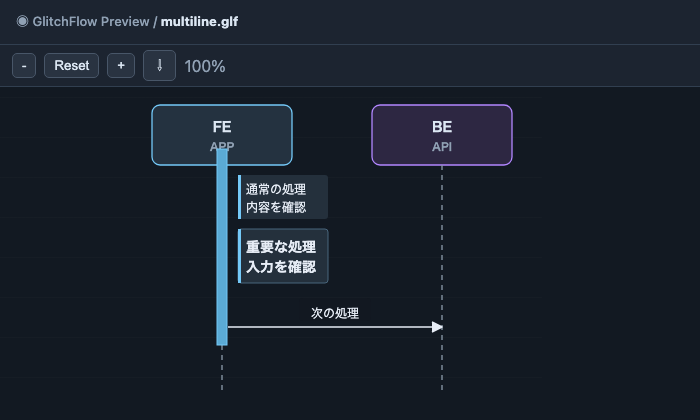
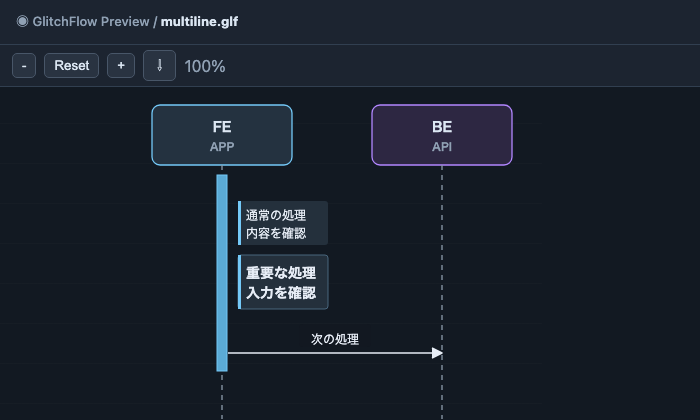
feat: Fix initial activation overlap by adjusting activation bar positioning and updating related specifications and tests

Changed region(s): [[0.3, 0.3405, 0.63, 0.8976]]

diff --git a/tests/visual/sequence.spec.ts b/tests/visual/sequence.spec.ts
@@ -80,7 +80,7 @@ test("REQ-007 / REQ-007-S02: 応答のない同期要求を補わない", async 
   await expect(page.locator(".sequence-arrow--response")).toHaveCount(0);
 });
 
-test("REQ-008 / REQ-008-S03、REQ-023 / REQ-023-S02: 複数行の処理を重ねず表示する", async ({
+test("REQ-008 / REQ-008-S03、REQ-022 / REQ-022-S03、REQ-023 / REQ-023-S02: 複数行の処理を重ねず表示する", async ({
   page,
 }) => {
   await page.goto("/");
@@ -110,6 +110,20 @@ test("REQ-008 / REQ-008-S03、REQ-023 / REQ-023-S02: 複数行の処理を重ね
   await expect(lines).toHaveCount(2);
   await expect(lines.nth(0)).toHaveText("重要な処理");
   await expect(lines.nth(1)).toHaveText("入力を確認");
+  const objectAndActivation = await page.evaluate(() => {
+    const object = window.document.querySelector<SVGRectElement>(
+      '.sequence-lifeline[data-object-id="FE"] .sequence-object',
+    );
+    const activation = window.document.querySelector<SVGRectElement>(
+      '.sequence-activation[data-object-id="FE"]',
+    );
+    if (!object || !activation) return null;
+    const objectBox = object.getBBox();
+    const activationBox = activation.getBBox();
+    return activationBox.y - (objectBox.y + objectBox.height);
+  });
+  expect(objectAndActivation).not.toBeNull();
+  expect(objectAndActivation).toBeGreaterThanOrEqual(8);
   const firstCardBox = await cards.nth(0).boundingBox();
   const cardBox = await cards.nth(1).boundingBox();
   const arrowBox = await page.locator(".sequence-arrow--sync").boundingBox();

diff --git a/src/webview/pages/preview/ui/render-preview.ts b/src/webview/pages/preview/ui/render-preview.ts
@@ -1,6 +1,7 @@
 import { type GlfDocument, layoutSequence } from "../../../../core";
 import {
   ACTIVATION_WIDTH,
+  OBJECT_HEADER_BOTTOM_Y,
   type SequenceLayout,
 } from "../../../../core/layout/sequence-layout";
 import { changeZoom, getZoom, resetZoom } from "../model/zoom";
@@ -325,7 +326,7 @@ export function renderPreview(
           x: String(lane.x - labelWidth / 2),
           y: "18",
           width: String(labelWidth),
-          height: "60",
+          height: String(OBJECT_HEADER_BOTTOM_Y - 18),
           rx: "8",
           class: `sequence-object sequence-object--${lane.type.toLowerCase()}`,
         }),
@@ -343,7 +344,7 @@ export function renderPreview(
         svgElement("line", {
           x1: String(lane.x),
           x2: String(lane.x),
-          y1: "78",
+          y1: String(OBJECT_HEADER_BOTTOM_Y),
           y2: String(layout.height - 24),
           class: "sequence-lifeline-line",
         }),

diff --git a/src/core/layout/sequence-layout.ts b/src/core/layout/sequence-layout.ts
@@ -7,6 +7,7 @@ import type {
 } from "../model/glf-model";
 
 export const ACTIVATION_WIDTH = 10;
+export const OBJECT_HEADER_BOTTOM_Y = 78;
 
 type TimelineItem =
   | Exclude<GlfEvent, { events: GlfEvent[] } | { branches: unknown[] }>
@@ -528,7 +529,7 @@ export function layoutSequence(
       preceding?.kind === "message" &&
       preceding.mode === "response" &&
       preceding.from === event.objectId;
-    const y = followsOwnResponse
+    const eventY = followsOwnResponse
       ? lastY
       : lastY +
         (event.kind === "activation"
@@ -540,6 +541,10 @@ export function layoutSequence(
             : preceding?.kind === "branch-open"
               ? 44
               : 60);
+    const y =
+      event.kind === "activation" && event.action === "start"
+        ? Math.max(eventY, OBJECT_HEADER_BOTTOM_Y + 10)
+        : eventY;
     lastY = y;
     lastPanel = undefined;
     if (event.kind === "activation") {

diff --git a/tests/core/sequence-layout.test.ts b/tests/core/sequence-layout.test.ts
@@ -26,6 +26,14 @@ describe("layoutSequence", () => {
     expect(layout.processes[0].emphasis).toBe(true);
   });
 
+  it("REQ-022 / REQ-022-S03: メッセージ後の活性はメッセージ位置から始まる", () => {
+    const layout = layoutSequence(
+      parseGlf('Object FE as "FE" type APP\nGlobal ->> FE: 入力\nFE+\nFE-'),
+      measure,
+    );
+    expect(layout.activations[0].startY).toBe(layout.messages[0].y);
+  });
+
   it("REQ-008 / REQ-008-S02: 未宣言の参照を配置せず既知の処理を残す", () => {
     const document = parseGlf(
       'Object FE as "FE" type APP\nFE ->> X: call\nFE: work',

diff --git a/openspec/traceability.md b/openspec/traceability.md
@@ -70,6 +70,7 @@
 
 | 変更名 | 要件ID | 操作 | 変更の状態 | 対象仕様 | 提案、設計、タスク |
 | --- | --- | --- | --- | --- | --- |
+| fix-initial-activation-overlap | REQ-022 | 変更 | アーカイブ済み | [正式仕様](specs/preview-appearance/spec.md#requirement-req-022---図面とobjectの視覚表現) | [提案](changes/archive/2026-10-31-fix-initial-activation-overlap/proposal.md)、[設計](changes/archive/2026-10-31-fix-initial-activation-overlap/design.md)、[タスク](changes/archive/2026-10-31-fix-initial-activation-overlap/tasks.md) |
 | multiline-process-labels | REQ-002 | 変更 | アーカイブ済み | [正式仕様](specs/glf-parsing/spec.md) | [提案](changes/archive/2026-10-31-multiline-process-labels/proposal.md)、[設計](changes/archive/2026-10-31-multiline-process-labels/design.md)、[タスク](changes/archive/2026-10-31-multiline-process-labels/tasks.md) |
 | multiline-process-labels | REQ-008 | 変更 | アーカイブ済み | [正式仕様](specs/sequence-rendering/spec.md) | [提案](changes/archive/2026-10-31-multiline-process-labels/proposal.md)、[設計](changes/archive/2026-10-31-multiline-process-labels/design.md)、[タスク](changes/archive/2026-10-31-multiline-process-labels/tasks.md) |
 | multiline-process-labels | REQ-023 | 変更 | アーカイブ済み | [正式仕様](specs/preview-appearance/spec.md) | [提案](changes/archive/2026-10-31-multiline-process-labels/proposal.md)、[設計](changes/archive/2026-10-31-multiline-process-labels/design.md)、[タスク](changes/archive/2026-10-31-multiline-process-labels/tasks.md) |
@@ -130,6 +131,7 @@
 
 | 変更名 | 要件IDとシナリオID | 受け入れ条件 | 実装箇所 | テストまたは手動確認 | 検証記録 |
 | --- | --- | --- | --- | --- | --- |
+| fix-initial-activation-overlap | REQ-022 / REQ-022-S03 | [シナリオ](specs/preview-appearance/spec.md#scenario-req-022-s03---先頭の活性をobject枠の下に置く) | [配置](../src/core/layout/sequence-layout.ts) `layoutSequence`、[描画](../src/webview/pages/preview/ui/render-preview.ts) `renderPreview` | [Chromium](../tests/visual/sequence.spec.ts) `REQ-022 / REQ-022-S03`、[Core](../tests/core/sequence-layout.test.ts) `REQ-022 / REQ-022-S03`、[実画面](../docs/images/multiline-process-preview.png) | [記録](#fix-initial-activation-overlap---2026-10-31-object枠と活性の間隔) |
 | multiline-process-labels | REQ-002 / REQ-002-S03 | [シナリオ](specs/glf-parsing/spec.md#scenario-req-002-s03---複数行の処理を保持する) | [解析](../src/core/parser/parse-glf.ts) `parseGlf` | [Core](../tests/core/parse-glf.test.ts) `REQ-002 / REQ-002-S03` | [記録](#multiline-process-labels---2026-10-31-複数行処理) |
 | multiline-process-labels | REQ-002 / REQ-002-S04 | [シナリオ](specs/glf-parsing/spec.md#scenario-req-002-s04---空の処理を診断する) | [解析](../src/core/parser/parse-glf.ts) `parseGlf` | [Core](../tests/core/parse-glf.test.ts) `REQ-002 / REQ-002-S04` | [記録](#multiline-process-labels---2026-10-31-複数行処理) |
 | multiline-process-labels | REQ-008 / REQ-008-S03 | [シナリオ](specs/sequence-rendering/spec.md#scenario-req-008-s03---複数行処理の時間軸を確保する) | [配置](../src/core/layout/sequence-layout.ts) `layoutSequence` | [Core](../tests/core/sequence-layout.test.ts) `REQ-008 / REQ-008-S03`、[Chromium](../tests/visual/sequence.spec.ts) `REQ-008 / REQ-008-S03` | [記録](#multiline-process-labels---2026-10-31-複数行処理) |
@@ -843,4 +845,27 @@ OpenSpecのstrict検証も成功した。\
 - 方法: 差分仕様の3要件ブロックを正式仕様へ同期し、`npx --no-install openspec validate --specs`と要件ブロックの一致を確認した。
 - 結果: 正式仕様13件の検証が成功し、変更を[アーカイブ](changes/archive/2026-10-31-multiline-process-labels/proposal.md)へ移した。
 - 証跡: [解析仕様](specs/glf-parsing/spec.md)、[配置仕様](specs/sequence-rendering/spec.md)、[表示仕様](specs/preview-appearance/spec.md)、[完了タスク](changes/archive/2026-10-31-multiline-process-labels/tasks.md)。
+- 未検証事項: なし。
+
+### fix-initial-activation-overlap - 2026-10-31 Object枠と活性の間隔
+
+- 対象: REQ-022-S01、REQ-022-S02、REQ-022-S03。
+- 実行日: 2026-10-31 JST。
+- 対象の版: この作業ツリーの未コミット差分。
+- 方法: 先頭に`FE+`がある複数行処理のChromiumテストを追加し、Object枠との間隔が-16pxで失敗することを確認した。\
+配置の下限を修正して同じテストと`npm run check`、関連するChromiumテスト、`npm run build`、`npx --no-install openspec validate fix-initial-activation-overlap --strict`を実行した。
+- 結果: Coreテスト44件とChromiumテスト20件が成功した。\
+Object枠と活性の間に空きがある[実画面](../docs/images/multiline-process-preview.png)を確認した。\
+OpenSpecのstrict検証とビルドも成功した。
+- 証跡: [変更仕様](changes/archive/2026-10-31-fix-initial-activation-overlap/specs/preview-appearance/spec.md)、[配置](../src/core/layout/sequence-layout.ts)、[Chromium](../tests/visual/sequence.spec.ts)、[Core](../tests/core/sequence-layout.test.ts)。
+- 未検証事項: なし。
+
+### fix-initial-activation-overlap - 2026-10-31 アーカイブ
+
+- 対象: REQ-022、REQ-022-S03。
+- 実行日: 2026-10-31 JST。
+- 対象の版: この作業ツリーの未コミット差分。
+- 方法: 差分仕様のREQ-022を正式仕様へ同期し、要件ブロックの一致と`npx --no-install openspec validate --specs`を確認した。
+- 結果: 正式仕様13件の検証が成功し、変更を[アーカイブ](changes/archive/2026-10-31-fix-initial-activation-overlap/proposal.md)へ移した。
+- 証跡: [正式仕様](specs/preview-appearance/spec.md)、[完了タスク](changes/archive/2026-10-31-fix-initial-activation-overlap/tasks.md)。
 - 未検証事項: なし。

diff --git a/openspec/changes/archive/2026-10-31-fix-initial-activation-overlap/design.md b/openspec/changes/archive/2026-10-31-fix-initial-activation-overlap/design.md
@@ -1,0 +1,57 @@
+# Design
+
+## Context
+
+- 提案: [proposal.md](proposal.md)。
+- 対象仕様: [REQ-022](specs/preview-appearance/spec.md)。
+- 前提と制約: [レイアウトと描画](../../../tech.md#レイアウトと描画)に従い、座標はCoreで決める。
+
+## Goals / Non-Goals
+
+**Goals:**
+
+- REQ-022-S03のObject枠と先頭活性の間隔を確保する。
+
+**Non-Goals:**
+
+- メッセージの直後に始まる活性の起点は変えない。
+
+## Decisions
+
+### D-01 - 先頭の活性開始位置を下限で守る
+
+- 対象: REQ-022、REQ-022-S03。
+- 選択: Coreの配置で活性開始イベントの座標にObject枠下端からの下限を設ける。
+- 理由: 表示側で活性バーだけをずらすと、後続の処理とメッセージの時間軸が一致しなくなる。
+- 代替案: SVG描画時の活性バーだけを下げる方法は、配置結果と表示結果が食い違うため採用しない。
+- 配置と依存: [sequence-layout.ts](../../../../src/core/layout/sequence-layout.ts)の`layoutSequence`に置き、既存のレイアウトAPIを維持する。
+
+## Traceability
+
+| 要件ID | シナリオID | 設計節 | 実装予定箇所 | 検証方法とテスト予定 |
+| --- | --- | --- | --- | --- |
+| REQ-022 | REQ-022-S01 | [D-01](#d-01---先頭の活性開始位置を下限で守る) | `layoutSequence` | [既存Chromium](../../../../tests/visual/preview-appearance.spec.ts)の色と表示 |
+| REQ-022 | REQ-022-S02 | [D-01](#d-01---先頭の活性開始位置を下限で守る) | `layoutSequence` | [既存Chromium](../../../../tests/visual/preview-appearance.spec.ts)の種別とテーマ |
+| REQ-022 | REQ-022-S03 | [D-01](#d-01---先頭の活性開始位置を下限で守る) | `layoutSequence` | [Chromium](../../../../tests/visual/sequence.spec.ts)のObject枠と活性の座標 |
+
+## Verification Plan
+
+- 正常、境界、異常: 先頭の`FE+`をChromiumで測定し、メッセージ直後の活性位置は既存の配置テストで確認する。
+- 非機能要件: 対象外である。
+- 手動確認: 更新した[実画面](../../../../docs/images/multiline-process-preview.png)でObject枠と活性の間を目視確認する。
+- 全体検証: `npm run check`、対象のPlaywrightテスト、OpenSpec strict検証を実行する。
+
+## Risks / Trade-offs
+
+| 対象IDまたは設計節 | リスクや制約 | 対処と検証 |
+| --- | --- | --- |
+| D-01 | 先頭イベントの後続要素も下がる | 既存の描画テストを実行する |
+
+## Migration Plan
+
+DSLと設定の移行は不要である。
+修正が失敗した場合は配置の下限と回帰テストを見直す。
+
+## Open Questions
+
+なし。

diff --git a/openspec/changes/archive/2026-10-31-fix-initial-activation-overlap/specs/preview-appearance/spec.md b/openspec/changes/archive/2026-10-31-fix-initial-activation-overlap/specs/preview-appearance/spec.md
@@ -1,0 +1,32 @@
+# Spec Delta
+
+## MODIFIED Requirements
+
+### Requirement: REQ-022 - 図面とObjectの視覚表現
+
+WHEN `.glf`の図面を表示したとき、GlitchFlowは SHALL HTML試作に基づく暗色の図面背景と操作部を表示し、Objectの表示名と種別を二段の枠内に示し、DSL上のObject IDを図面の文字列として表示せず、APP `#74C9F8`、API `#B287FF`、DB `#47D78B`、FILE `#EDA357`、FEATURE `#E79BBE`、MODULE `#A5B3C4`を枠と活性の識別色として使用する。\
+先頭イベントの活性バーはObject枠の下端から8px以上離して配置する。
+
+#### Scenario: REQ-022-S01 - 種別と活性を区別する
+
+- **GIVEN** FE、BE、DB、FILEの4種類と活性を含む`examples/login.glf`がある。
+- **WHEN** プレビューを表示する。
+- **THEN** 各Objectに表示名と種別だけが表示され、`FE`、`BE`、`DB`、`FILE`のIDは副題に現れず、枠と対応する活性バーが種別ごとの色で区別できる。
+- **AND** 図面と操作部は暗色の背景を持ち、図面には控えめな横方向の時間目盛りがある。
+- **AND** 操作部の3つのボタンに表示する文字は左から`-`、`Reset`、`+`であり、縮小、等倍、拡大の操作をそれぞれ実行できる。
+- **AND** 3つのボタンの読み上げ用の名前はそれぞれ`縮小`、`等倍`、`拡大`である。
+- **AND** 最初のメッセージラベルの上端はObject枠の下端から10px以上離れる。
+
+#### Scenario: REQ-022-S02 - 未使用の種別とテーマ
+
+- **GIVEN** FEATUREとMODULEを宣言した`.glf`をライトテーマのVS Codeで開いている。
+- **WHEN** プレビューを表示する。
+- **THEN** 両種別はそれぞれ指定の識別色を使い、暗色の図面上で表示名と種別が読め、IDは表示されない。
+- **AND** VS Codeの通常エディタの配色は変更されない。
+
+#### Scenario: REQ-022-S03 - 先頭の活性をObject枠の下に置く
+
+- **GIVEN** 最初のイベントが`FE+`であり、FEの複数行処理、メッセージ、`FE-`が続く文書がある。
+- **WHEN** プレビューを表示する。
+- **THEN** FEの活性バーはObject枠の下端から8px以上下に始まり、処理とメッセージの位置まで連続する。
+- **AND** メッセージの直後に始まる活性は、従来どおりメッセージの高さから始まる。

diff --git a/openspec/changes/archive/2026-10-31-fix-initial-activation-overlap/proposal.md b/openspec/changes/archive/2026-10-31-fix-initial-activation-overlap/proposal.md
@@ -1,0 +1,61 @@
+# Proposal
+
+## Why
+
+最初のイベントが`FE+`の図では、活性バーの上端がObject枠に入り込み、表示名と種別を読みにくくする。
+複数行処理の実画面でもこの重なりが発生したため、開始位置を修正する。
+
+## What Changes
+
+- 最初のイベントが活性開始の場合、活性バーをObject枠の下に配置する。
+- [複数行処理の実画面](../../../../docs/images/multiline-process-preview.png)を修正後の表示で更新する。
+
+## Scope
+
+**In scope:**
+
+- 最初の活性開始とObject枠の間隔。
+- 描画テストと実画面の更新。
+
+**Out of scope:**
+
+- メッセージの直後に始まる活性の接続位置: 既存の表示条件を維持するため。
+- Object枠の形と配色: 重なりの原因ではないため。
+
+## Requirements
+
+| 要件ID | 要件名 | 操作 | 根拠となる方針文書の節 | 台帳 |
+| --- | --- | --- | --- | --- |
+| REQ-022 | 図面とObjectの視覚表現 | 変更 | [シーケンス図](../../../product.md#シーケンス図) | [台帳](../../../traceability.md#要件一覧) |
+
+## Capabilities
+
+### New Capabilities
+
+- なし。
+
+### Modified Capabilities
+
+- `preview-appearance`: 最初の活性とObject枠の重なりを解消する(REQ-022)。
+
+## Examples
+
+| 要件ID | 観点 | 状態と入力 | 契機 | 観測する結果 |
+| --- | --- | --- | --- | --- |
+| REQ-022 | 正常 | 最初に`FE+`がある | プレビュー表示 | [REQ-022-S03](specs/preview-appearance/spec.md#scenario-req-022-s03---先頭の活性をobject枠の下に置く) |
+
+## Impact
+
+- 実装と配置: Coreのシーケンス配置とChromiumの描画テストに影響する。
+- 互換性とデータ: DSLとIRの形式は変わらず、先頭の活性以降の表示位置だけが下がる。
+- 依存関係と文書: 新しい依存はなく、READMEに使う実画面と台帳を更新する。
+
+## Open Questions
+
+- なし。
+
+## Readiness
+
+- 計画の状態: 合意済み。
+- 合意の根拠: 2026-10-31のユーザー指示で、実画面のObjectと活性の重なりを修正することが指定された。
+- 実装を妨げる未決事項: なし。

diff --git a/openspec/changes/archive/2026-10-31-fix-initial-activation-overlap/tasks.md b/openspec/changes/archive/2026-10-31-fix-initial-activation-overlap/tasks.md
@@ -1,0 +1,20 @@
+# Tasks
+
+## 1. Object枠と活性の間隔
+
+設計: [D-01](design.md#d-01---先頭の活性開始位置を下限で守る)。
+
+- [x] 1.1 [REQ-022/REQ-022-S03] `tests/visual/sequence.spec.ts`にObject枠と活性の間隔のテストを追加し、対象テストの失敗を確認する。
+- [x] 1.2 [REQ-022/REQ-022-S03] `src/core/layout/sequence-layout.ts`で先頭活性の開始位置を修正し、対象テストの成功を確認する。
+- [x] 1.3 [REQ-022/REQ-022-S01、REQ-022-S02、REQ-022-S03] 修正後の画像と`openspec/traceability.md`を更新し、仕様、実装、検証結果を対応づける。
+
+## 2. 全体の整合性と検証
+
+設計: [Verification Plan](design.md#verification-plan)。
+
+- [x] 2.1 [REQ-022/REQ-022-S01、REQ-022-S02、REQ-022-S03] `npm run check`と関連するPlaywrightテストを実行し、既存の描画を含む回帰がないことを確認する。
+- [x] 2.2 [REQ-022/REQ-022-S03] `fix-initial-activation-overlap`のOpenSpec strict検証と成果物の照合を行い、未解決事項を確認する。
+
+## Workflow follow-up
+
+- アーカイブ時に正式仕様へ同期し、移動後の参照を確認する。
